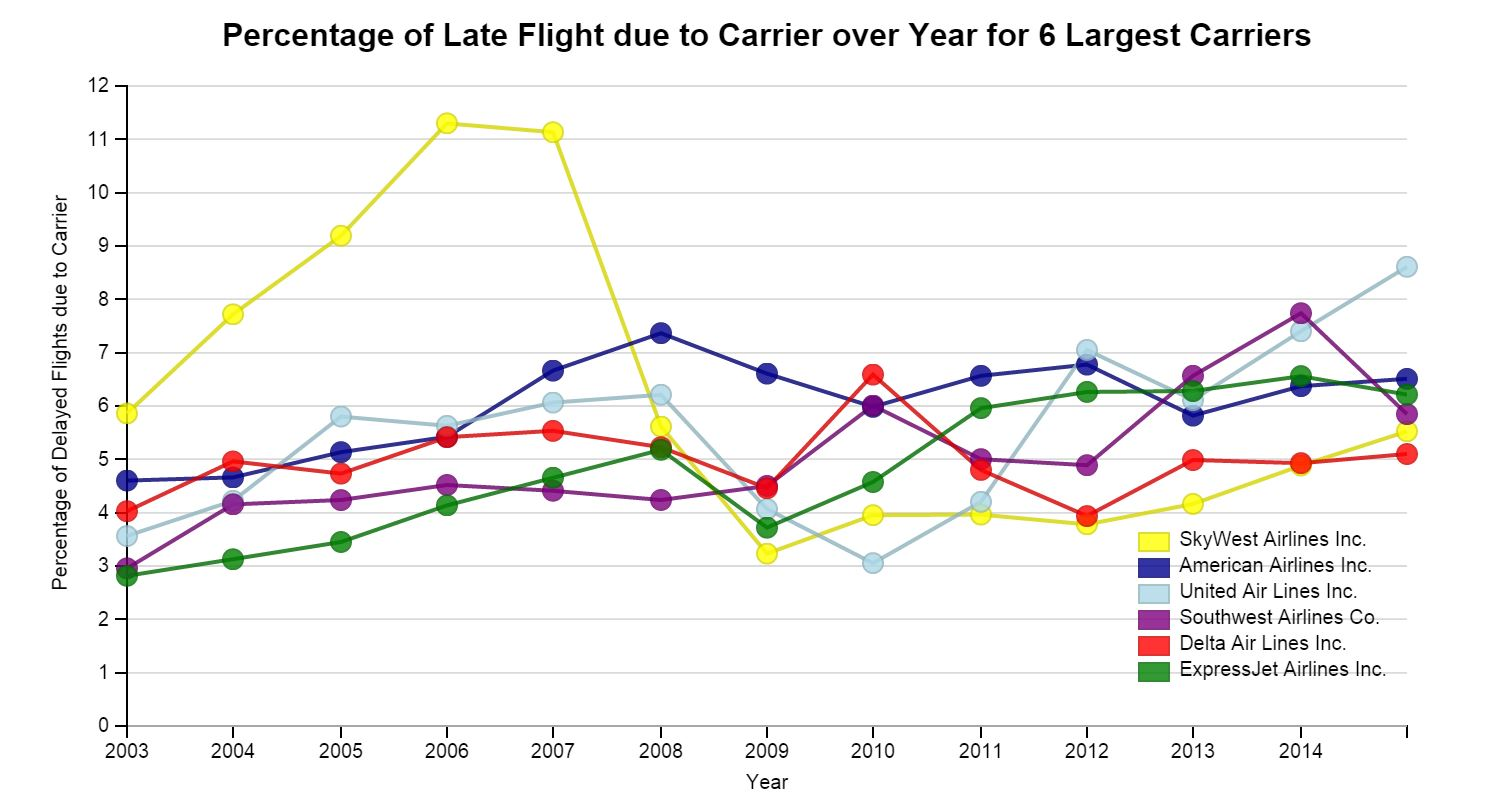
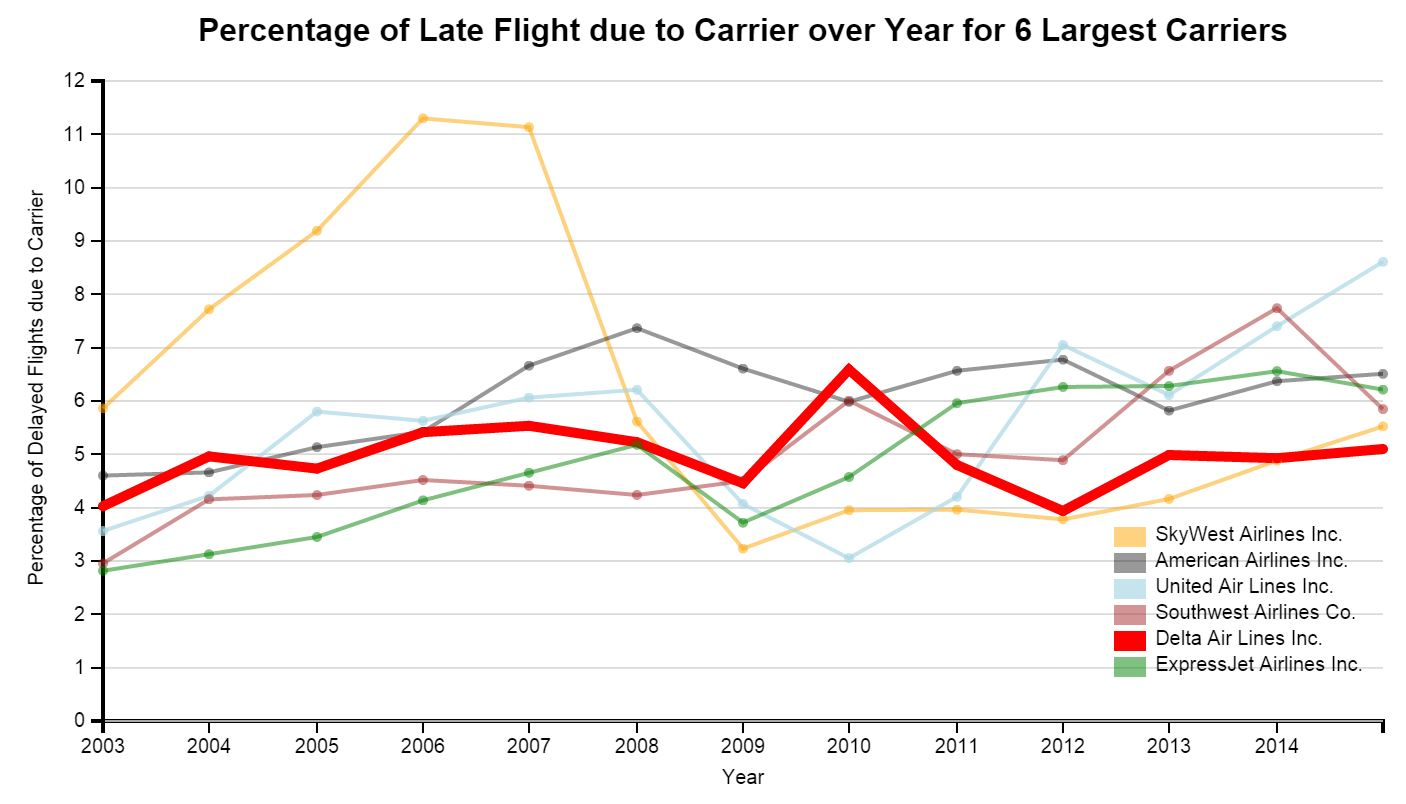
Seperated dimple form js and css, added story to the presentation: comparing delta airlines with other carriers

Changed region(s): [[0.0, 0.0933, 1.0, 0.995], [0.1223, 0.0, 0.9175, 0.0622], [0.9787, 0.3109, 1.0, 0.342]]

diff --git a/final-index.html b/final-index.html
@@ -2,183 +2,14 @@
 <html>
 <head>
   <meta charset="utf-8">
+  <title> Performance of Delta Airlines comparing to other Domestic Carrier Airlines at US</title>
+  <link rel="stylesheet" type="text/css" href="css/style.css" />
   <script src="http://d3js.org/d3.v3.min.js"></script>
   <script src="http://dimplejs.org/dist/dimple.v2.0.0.min.js"></script>
+  <script type="text/javascript" src="js/functions.js"></script>
+
     
-
-    <style>
-      h2 {
-        text-align: left;
-        -webkit-margin-start: 45px;
-      }
-    </style>
-    <script type="text/javascript">
-      
-
-
-      function draw(data) {
-      
-      /*
-        D3.js setup code
-      */
-
-          "use strict";
-          
-          var margin = 75,
-              width = 800 - margin,
-              height = 400 - margin;
-
-
-          d3.select('body')
-            .append('h2')
-            .text('Performance of 6 Largest U.S. Domestic Carriers from 2003 to 2015');
-          
-          function addText(svg, chart, text1) {
-            svg.append("text")
-           .attr("x", chart._xPixels() + chart._widthPixels() / 2)
-           .attr("y", chart._yPixels() - 20)
-           .style("text-anchor", "middle")
-           .style("font-family", "sans-serif")
-           .style("font-weight", "bold")
-           .text(text1);
-
-          };
-          
-          
-
-          
-          
-      /*
-        Dimple.js Chart construction code
-      */
-                    
-
-          
-          /*
-          drawChart("year", "Year",
-            "avg_carrier_delay", "Average Delay per Flight due to Carrier (minutes)",
-            "carrier_name",
-            "Average Delay per Flight due to Carrier over Year for 6 Largest Carriers", data)
-          */
-          function createSVG() {
-            return d3.select("body")
-            .append("svg")
-              .attr("width", width + margin)
-              .attr("height", height + margin)
-            .append('g')
-                .attr('class','chart');
-
-          };
-
-          function addSeries( series, chart) {
-            chart.addSeries("carrier_name", dimple.plot.line);
-            chart.addSeries("carrier_name", dimple.plot.scatter);
-            chart.assignColor("SkyWest Airlines Inc.", "yellow");
-            chart.assignColor("Delta Air Lines Inc.", "red");
-            chart.assignColor("Southwest Airlines Co.", "purple");
-            chart.assignColor("United Air Lines Inc.", "lightblue");
-            chart.assignColor("ExpressJet Airlines Inc.", "green");
-            chart.assignColor("American Airlines Inc.", "darkblue");
-            chart.addLegend(width * .75, height * .81, width*0.25, 100, 'right');
-
-          };
-          
-          var svg = createSVG()
-          var chart1 = new dimple.chart(svg, data);
-          var x = chart1.addTimeAxis("x", "year"); 
-          x.tickFormat = "%Y";
-          x.title = 'Year';
-          
-          
-          var y = chart1.addMeasureAxis("y", "avg_carrier_delay");
-          y.title = "Average Delay per Flight due to Carrier (minutes)";
-          addSeries("carrier_name", chart1);
-          addText(svg, chart1, "Average Delay per Flight due to Carrier over Year for 6 Largest Carriers");
-
-          chart1.draw();
-          
-          /*
-          drawChart("year", "Year",
-            "avg_carrier_delay", "Average Delay per Flight due to Carrier (minutes)",
-            "carrier_name",
-            "Average Delay per Flight due to Carrier over Year for 6 Largest Carriers", data)
-          */
-        
-
-          var svg2 = createSVG()
-          var chart2 = new dimple.chart(svg2, data);
-
-          var x = chart2.addTimeAxis("x", "year"); 
-          x.tickFormat = "%Y";
-          x.title = 'Year';
-          //chart.addCategoryAxis("x", "carrier_name");
-          var y = chart2.addMeasureAxis("y", "avg_arr_delay");
-          y.title = "Average Delay per Flight (minutes)";
-          addSeries("carrier_name", chart2);
-          addText(svg2, chart2, "Average Arrival Delay per Flight over Year for 6 Largest Carriers");
-          
-          chart2.draw();
-
-          
-          var svg3 = createSVG()
-
-          
-
-          var chart3 = new dimple.chart(svg3, data);
-          var x = chart3.addTimeAxis("x", "year"); 
-          x.tickFormat = "%Y";
-          x.title = 'Year';
-          //chart.addCategoryAxis("x", "carrier_name");
-          var y = chart3.addMeasureAxis("y", "avg_ontime");
-          y.overrideMin = 60
-          y.title = "Percentage of On-Time Flights";
-          addSeries("carrier_name", chart3);
-          addText(svg3, chart3, "Percentage of On-Time Flights over Year for 6 Largest Carriers");
-          chart3.draw();
-          
-          var svg4 = createSVG()
-
-          
-
-          var chart4 = new dimple.chart(svg4, data);
-          var x = chart4.addTimeAxis("x", "year"); 
-          x.tickFormat = "%Y";
-          x.title = 'Year';
-          //chart.addCategoryAxis("x", "carrier_name");
-          var y = chart4.addMeasureAxis("y", "avg_carrier_ct");
-          y.title = "Percentage of Delayed Flights due to Carrier";
-          addSeries("carrier_name", chart4);
-          addText(svg4, chart4, "Percentage of Late Flight due to Carrier over Year for 6 Largest Carriers");
-          chart4.draw();
-
-          var svg5 = createSVG()
-
-          var chart5 = new dimple.chart(svg5, data);
-          var x = chart5.addTimeAxis("x", "year"); 
-          x.tickFormat = "%Y";
-          x.title = 'Year';
-          //chart.addCategoryAxis("x", "carrier_name");
-          var y = chart5.addMeasureAxis("y", "avg_arr_del15");
-          y.title = "Percentage of Delayed Flights";
-          addSeries("carrier_name", chart5);
-          addText(svg5, chart5, "Percentage of Delayed Flights over Year for 6 Largest Carriers");
-          chart5.draw();
-
-
-
-          var chart5 = new dimple.chart(svg5, data);
-          var x = chart5.addTimeAxis("x", "year"); 
-          x.tickFormat = "%Y";
-          x.title = 'Year';
-          //chart.addCategoryAxis("x", "carrier_name");
-          var y = chart5.addMeasureAxis("y", "avg_arr_del15");
-          y.title = "Percentage of Delayed Flights";
-          addSeries("carrier_name", chart5);
-          addText(svg5, chart5, "Percentage of Delayed Flights over Year for 6 Largest Carriers");
-          chart5.draw();
-
-        };
-      </script>
+    
   </head>
 <body>
   <div class="container">
@@ -186,14 +17,5 @@
       <section id="content" class="col-md-12"></section>
     </div>
   </div>
-  <script type="text/javascript">
-  /*
-    Use D3 (not dimple.js) to load the TSV file
-    and pass the contents of it to the draw function
-    */
-  //d3.tsv("airline_delays.csv", draw);
-  
-  d3.csv(".\\data\\summary_airlines.csv", draw);
-  </script>
 </body>
 </html>

diff --git a/js/functions.js b/js/functions.js
@@ -1,0 +1,181 @@
+
+
+
+d3.csv(".\\data\\summary_airlines.csv", function(data) {
+
+  "use strict";
+  
+  var margin = 75,
+      width = 800 - margin,
+      height = 400 - margin;
+
+
+  d3.select('body')
+    .append('h2')
+    .text('Performance of 6 Largest U.S. Domestic Carriers from 2003 to 2015');
+  
+  function addText(svg, chart, text1) {
+  // addText takes chart and text name and assign that name to the chart
+    svg.append("text")
+   .attr("x", chart._xPixels() + chart._widthPixels() / 2)
+   .attr("y", chart._yPixels() - 20)
+   .style("text-anchor", "middle")
+   .style("font-family", "sans-serif")
+   .style("font-weight", "bold")
+   .text(text1);
+
+  };
+                        
+
+          
+          
+  function createSVG() {
+  // This function simply return a new SVG
+    return d3.select("body")
+    .append("svg")
+      .attr("width", width + margin)
+      .attr("height", height + margin)
+    .append('g')
+        .attr('class','chart');
+  };
+
+
+  function addSeries( series, chart) {
+  // addSeries, add Line and Point series to chart and also assign colors to the serries
+    
+    
+
+  
+    chart.addSeries(series, dimple.plot.line);
+    chart.addSeries(series, dimple.plot.scatter);
+    chart.assignColor("SkyWest Airlines Inc.", "orange", "orange",.5);
+    chart.assignColor("Delta Air Lines Inc.", "red", "red", 1);
+    chart.assignColor("Southwest Airlines Co.", "brown", "brown", .5);
+    chart.assignColor("United Air Lines Inc.", "lightblue", "lightblue", .7);
+    chart.assignColor("ExpressJet Airlines Inc.", "green", "green", .5);
+    chart.assignColor("American Airlines Inc.", "black", "black", .4);
+    chart.addLegend(width * .75, height * .81, width*0.25, 100, 'right');
+    
+    
+    var hey = ["1", "2"];
+          d3.selectAll("path")
+                  .attr('r', function(d) {
+                      if (d['carrier_name'] == "United Air Lines Inc.") {
+                      hey.push("pedarsaggggg");
+                      return 15;
+                  } else {
+                    for (x in d) {
+                            hey.push(x);
+                        } 
+                        
+                      return 30;
+                  }
+                      
+                    });
+
+         // window.alert(hey);
+
+    d3.selectAll("circle")
+      .attr('r', function(d) {
+          if (d['aggField'] == "Delta Air Lines Inc.") {
+          
+          return 15;
+      } else {
+        
+          return 5;
+      }
+     }); 
+
+  };
+
+  // draw chart: Average Delay per Flight due to Carrier over Year for 6 Largest Carriers        
+  var svg = createSVG()
+  var chart1 = new dimple.chart(svg, data);
+  var x = chart1.addTimeAxis("x", "year"); 
+  x.tickFormat = "%Y";
+  x.title = 'Year';
+  
+  var y = chart1.addMeasureAxis("y", "avg_carrier_delay");
+  y.title = "Average Delay per Flight due to Carrier (minutes)";
+  addText(svg, chart1, "Average Delay per Flight due to Carrier over Year for 6 Largest Carriers");
+  addSeries("carrier_name", chart1);
+  chart1.draw();
+  
+  
+  
+  // draw chart: Average Arrival Delay per Flight over Year for 6 Largest Carriers
+  var svg2 = createSVG()
+  var chart2 = new dimple.chart(svg2, data);
+
+  var x = chart2.addTimeAxis("x", "year"); 
+  x.tickFormat = "%Y";
+  x.title = 'Year';
+  //chart.addCategoryAxis("x", "carrier_name");
+  var y = chart2.addMeasureAxis("y", "avg_arr_delay");
+  y.title = "Average Delay per Flight (minutes)";
+  addSeries("carrier_name", chart2);
+  addText(svg2, chart2, "Average Arrival Delay per Flight over Year for 6 Largest Carriers");
+  
+  chart2.draw();
+
+  
+  // draw chart: Percentage of On-Time Flights over Year for 6 Largest Carriers
+  var svg3 = createSVG()  
+  var chart3 = new dimple.chart(svg3, data);
+  var x = chart3.addTimeAxis("x", "year"); 
+  x.tickFormat = "%Y";
+  x.title = 'Year';
+  
+  var y = chart3.addMeasureAxis("y", "avg_ontime");
+  y.overrideMin = 60
+  y.title = "Percentage of On-Time Flights";
+  addSeries("carrier_name", chart3);
+  addText(svg3, chart3, "Percentage of On-Time Flights over Year for 6 Largest Carriers");
+  chart3.draw();
+  
+
+  // draw chart: Percentage of Late Flight due to Carrier over Year for 6 Largest Carriers
+  var svg4 = createSVG()
+  var chart4 = new dimple.chart(svg4, data);
+  var x = chart4.addTimeAxis("x", "year"); 
+  x.tickFormat = "%Y";
+  x.title = 'Year';
+  
+  var y = chart4.addMeasureAxis("y", "avg_carrier_ct");
+  y.title = "Percentage of Delayed Flights due to Carrier";
+  addSeries("carrier_name", chart4);
+  addText(svg4, chart4, "Percentage of Late Flight due to Carrier over Year for 6 Largest Carriers");
+  chart4.draw();
+
+
+  // draw chart: Percentage of Delayed Flights over Year for 6 Largest Carriers
+  var svg5 = createSVG()
+  var chart5 = new dimple.chart(svg5, data);
+  var x = chart5.addTimeAxis("x", "year"); 
+  x.tickFormat = "%Y";
+  x.title = 'Year';
+  
+  var y = chart5.addMeasureAxis("y", "avg_arr_del15");
+  y.title = "Percentage of Delayed Flights";
+  addSeries("carrier_name", chart5);
+  addText(svg5, chart5, "Percentage of Delayed Flights over Year for 6 Largest Carriers");
+  chart5.draw();
+
+  
+
+  // Change the length of the line related to Delta Air Lines to 5 and other to 2
+  d3.selectAll('path')
+    .attr('stroke-width', function(d) {
+      if(d['key'] == "Delta Air Lines Inc.") {
+        return 5;
+      } else {
+        return 2;
+      }
+    });  
+
+  // Change the Radius of Circles to 3
+  d3.selectAll('circle')
+    .attr('r', 2 );
+});
+
+  

diff --git a/css/style.css b/css/style.css
@@ -1,0 +1,5 @@
+h2 {
+        text-align: left;
+        -webkit-margin-start: 45px;
+    }
+
